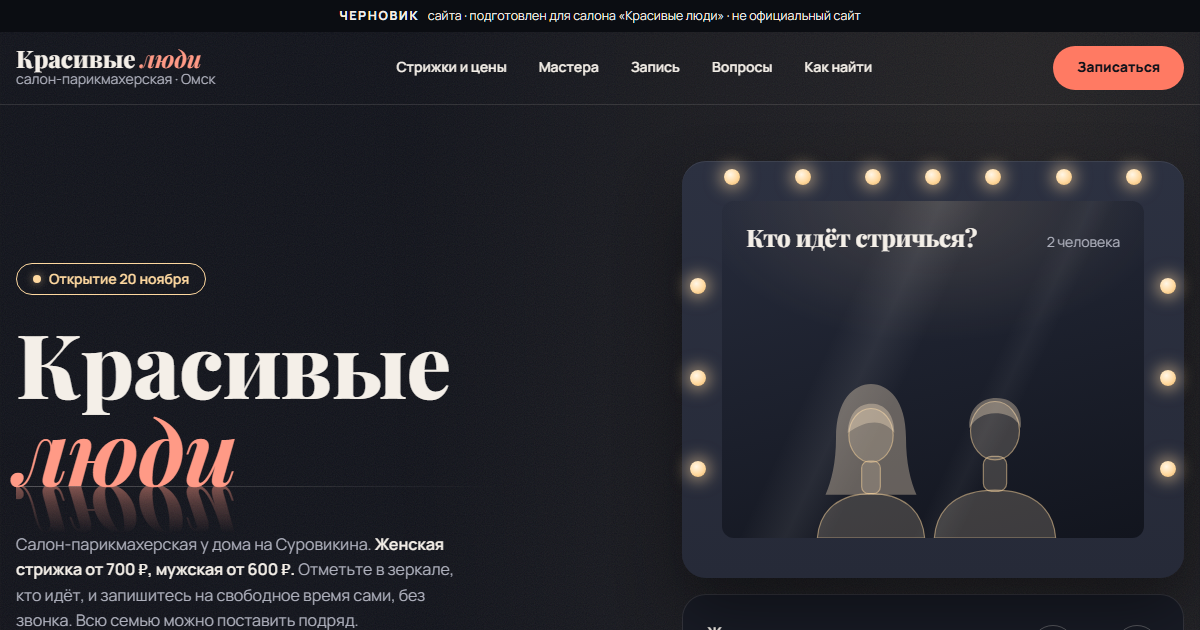
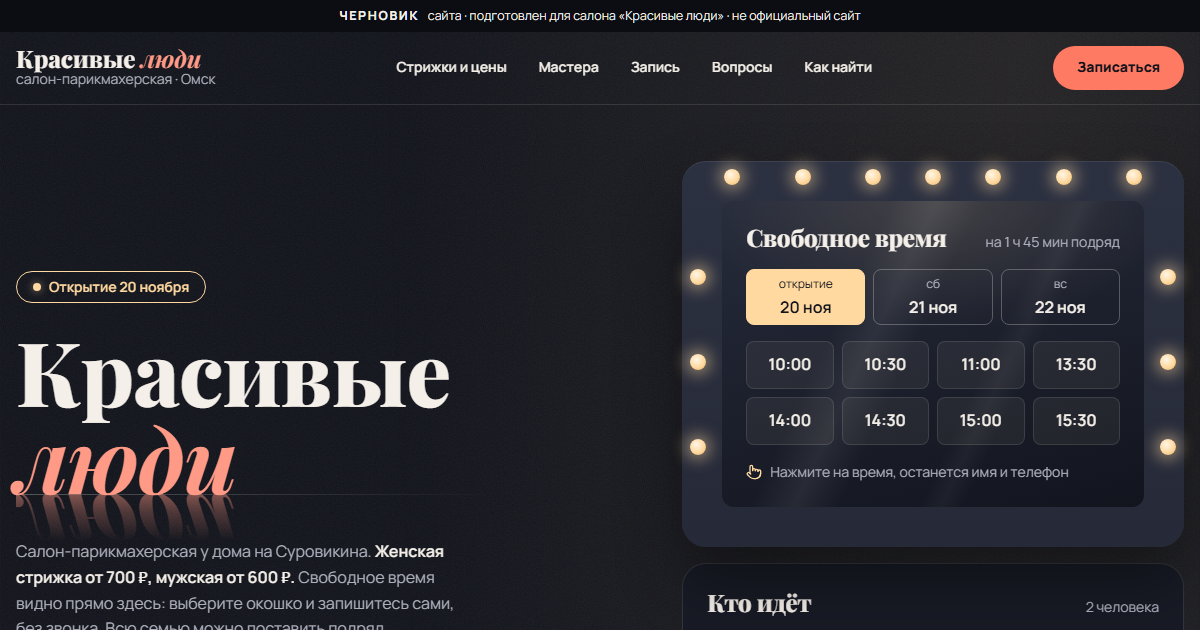
«Красивые люди»: в зеркале вместо силуэтов ближайшее свободное время

diff --git a/krasivye-lyudi/index.html b/krasivye-lyudi/index.html
@@ -24,7 +24,7 @@
 @font-face{font-family:'Manrope';font-style:normal;font-weight:600;font-display:swap;src:url(../fonts/manrope-latin-600-normal.woff2) format('woff2');unicode-range:U+0000-00FF,U+2000-206F,U+20AC,U+2122,U+2190-2199}
 @font-face{font-family:'Manrope';font-style:normal;font-weight:800;font-display:swap;src:url(../fonts/manrope-cyrillic-800-normal.woff2) format('woff2');unicode-range:U+0400-045F,U+0490-0491,U+04B0-04B1,U+2116}
 @font-face{font-family:'Manrope';font-style:normal;font-weight:800;font-display:swap;src:url(../fonts/manrope-latin-800-normal.woff2) format('woff2');unicode-range:U+0000-00FF,U+2000-206F,U+20AC,U+2122,U+2190-2199}
-:root{ --bg:#11131B;--surface:#181B25;--surface2:#232736;--ink:#F4EFE8;--muted:#AEB0BC;--line:rgba(244,239,232,.12);--line2:rgba(244,239,232,.28);--acc:#FF7A63;--acc-d:#F0624A;--on-acc:#11131B;--acc-t:#FF9A86;--lampa:#FFD9A0;--lampa-glow:rgba(255,217,160,.55);--lampa-off:#3A3B44;--rama:#262A38;--steklo1:#262B3B;--steklo2:#12151E;--sil:rgba(255,233,200,.18);--sil-v:rgba(255,233,200,.34);--sil-l:rgba(255,217,160,.5);--ok:#9FD3B0;--err:#FF9A85;--draft-bg:#0B0D12;--draft-ink:#F4EFE8;--r:8px;--fs:14px;--fm:16px;--ft:24px;--fl:clamp(48px,7.4vw,104px) }
+:root{ --bg:#11131B;--surface:#181B25;--surface2:#232736;--ink:#F4EFE8;--muted:#AEB0BC;--line:rgba(244,239,232,.12);--line2:rgba(244,239,232,.28);--acc:#FF7A63;--acc-d:#F0624A;--on-acc:#11131B;--acc-t:#FF9A86;--lampa:#FFD9A0;--lampa-glow:rgba(255,217,160,.55);--lampa-off:#3A3B44;--rama:#262A38;--steklo1:#262B3B;--steklo2:#12151E;--tile:rgba(255,233,200,.06);--tile-h:rgba(255,233,200,.12);--ok:#9FD3B0;--err:#FF9A85;--draft-bg:#0B0D12;--draft-ink:#F4EFE8;--r:8px;--fs:14px;--fm:16px;--ft:24px;--fl:clamp(48px,7.4vw,104px) }
 *{box-sizing:border-box;margin:0;padding:0}
 html{scroll-behavior:smooth;-webkit-text-size-adjust:100%}
 html,body{overflow-x:clip}
@@ -112,18 +112,34 @@ section{padding:96px 0}
 .js .lampa{opacity:.25;box-shadow:none}
 .js .zerkalo.in .lampa,.og .lampa,.vse .lampa{opacity:1;box-shadow:0 0 16px 4px var(--lampa-glow);transition-delay:calc(var(--i) * 60ms)}
 .og .lampa,.vse .lampa{transition:none}
-.steklo{position:relative;display:flex;flex-direction:column;justify-content:space-between;gap:16px;aspect-ratio:4/3.2;padding:24px 24px 0;border-radius:12px;overflow:hidden;background:radial-gradient(80% 60% at 50% 0%,rgba(255,217,160,.14),transparent 70%),linear-gradient(165deg,var(--steklo1),var(--steklo2))}
+.steklo{position:relative;display:flex;flex-direction:column;gap:16px;padding:24px;border-radius:12px;overflow:hidden;background:radial-gradient(80% 60% at 50% 0%,rgba(255,217,160,.14),transparent 70%),linear-gradient(165deg,var(--steklo1),var(--steklo2))}
 .steklo::after{content:"";position:absolute;inset:0;background:linear-gradient(115deg,transparent 30%,rgba(255,255,255,.07) 38%,transparent 46%,transparent 60%,rgba(255,255,255,.04) 64%,transparent 68%);pointer-events:none}
-.zk-verh{position:relative;z-index:1;display:flex;flex-wrap:wrap;align-items:baseline;justify-content:space-between;gap:8px 16px}
+.steklo>*{position:relative;z-index:1}
+.zk-verh{display:flex;flex-wrap:wrap;align-items:baseline;justify-content:space-between;gap:8px 16px}
 .zk-verh h2{font-size:var(--ft)}
 .zk-verh span{font-size:var(--fs);color:var(--muted)}
-.lyudi{position:relative;z-index:1;display:flex;align-items:flex-end;justify-content:center;gap:0;min-height:0;flex:1}
-.chel{flex:1 1 0;min-width:0;max-width:140px;margin:0 -8px;transform-origin:50% 100%;animation:poyav .4s ease-out both}
-.chel svg{display:block;width:100%;height:auto}
-.chel .k{fill:var(--sil);stroke:var(--sil-l);stroke-width:1}
-.chel .v{fill:var(--sil-v)}
-@keyframes poyav{from{opacity:0;transform:translateY(16px)}to{opacity:1;transform:none}}
-.og .chel,.vse .chel{animation:none}
+.zk-dni{display:grid;grid-template-columns:repeat(3,minmax(0,1fr));gap:8px}
+.zk-den{display:grid;place-items:center;min-height:56px;padding:4px;border:1px solid var(--line2);border-radius:var(--r);background:transparent;line-height:1.2;transition:background-color .3s ease-out,border-color .3s ease-out,color .3s ease-out}
+.zk-den small{font-size:12px;color:var(--muted)}
+.zk-den b{font-weight:600}
+.zk-den:hover{border-color:var(--lampa)}
+.zk-den[aria-selected="true"]{background:var(--lampa);border-color:var(--lampa);color:var(--on-acc)}
+.zk-den[aria-selected="true"] small{color:var(--on-acc)}
+.zk-sloty{display:grid;grid-template-columns:repeat(4,minmax(0,1fr));gap:8px}
+.zk-slot{min-height:48px;border:1px solid var(--line);border-radius:var(--r);background:var(--tile);font-weight:600;transition:background-color .3s ease-out,border-color .3s ease-out,transform .3s ease-out}
+.zk-slot:hover{background:var(--tile-h);border-color:var(--acc-t)}
+.zk-slot:active{transform:scale(.97)}
+.zk-pusto{grid-column:1/-1;font-size:var(--fs);color:var(--muted)}
+.zk-pod{display:flex;align-items:center;gap:8px;font-size:var(--fs);color:var(--muted)}
+.zk-pod svg{width:16px;height:16px;color:var(--lampa)}
+.js .zk-slot{opacity:0}
+.js .zerkalo.in .zk-slot{animation:poyav .4s ease-out calc(var(--i) * 40ms + 300ms) both}
+.js .zk-sloty.gotov .zk-slot{animation-duration:.3s;animation-delay:calc(var(--i) * 24ms)}
+@keyframes poyav{from{opacity:0;translate:0 8px}to{opacity:1;translate:0 0}}
+.og .zk-slot,.vse .zk-slot{opacity:1;animation:none!important}
+.pult-zag{display:flex;align-items:baseline;justify-content:space-between;gap:16px;padding-bottom:8px}
+.pult-zag h3{font-size:var(--ft)}
+.pult-zag span{font-size:var(--fs);color:var(--muted)}
 .pult{display:grid;gap:8px;padding:24px;border:1px solid var(--line);border-radius:24px;background:var(--surface)}
 .sch{display:flex;align-items:center;justify-content:space-between;gap:16px;min-height:56px}
 .sch+.sch{border-top:1px solid var(--line)}
@@ -143,7 +159,8 @@ section{padding:96px 0}
 .primer{font-size:var(--fs);color:var(--muted)}
 @media (max-width:640px){
   .rama{padding:32px;border-radius:16px}
-  .steklo{padding:16px 16px 0}
+  .steklo{padding:16px}
+  .zk-slot{font-size:var(--fs)}
   .pult{padding:16px}
 }
 
@@ -279,10 +296,10 @@ footer b{color:var(--ink)}
 .lipkaya.vidno{opacity:1;transform:none;pointer-events:auto}
 @media (min-width:1000px){.lipkaya{display:none}}
 @media (max-width:640px){section{padding:72px 0}.hero{padding:40px 0 72px}.hero-knopki .btn{width:100%}.kont,.reklama,.gotovo,.semya{padding:24px}.dom img{border-radius:16px}}
-@media (prefers-reduced-motion:reduce){.js .lampa{opacity:1;box-shadow:0 0 16px 4px var(--lampa-glow)}.js .otr{opacity:.5}.chel{animation:none}}
+@media (prefers-reduced-motion:reduce){.js .lampa{opacity:1;box-shadow:0 0 16px 4px var(--lampa-glow)}.js .otr{opacity:.45}.js .zk-slot{opacity:1;transform:none}}
 
 </style>
-<script type="application/ld+json">[{"@context": "https://schema.org", "@type": "HairSalon", "name": "Красивые люди", "description": "Салон-парикмахерская в Омске на улице Виталия Суровикина: женские, мужские и детские стрижки, онлайн-запись", "telephone": "+7 913 678-25-99", "url": "https://maltode.github.io/chernovik/krasivye-lyudi/", "address": {"@type": "PostalAddress", "streetAddress": "ул. Виталия Суровикина, 3, цокольный этаж", "addressLocality": "Омск", "postalCode": "644030", "addressCountry": "RU"}, "geo": {"@type": "GeoCoordinates", "latitude": 54.917846, "longitude": 73.426234}, "openingHoursSpecification": [{"@type": "OpeningHoursSpecification", "dayOfWeek": ["Monday", "Tuesday", "Wednesday", "Thursday", "Friday", "Saturday", "Sunday"], "opens": "10:00", "closes": "20:00"}], "paymentAccepted": "Наличные, перевод с карты", "makesOffer": [{"@type": "Offer", "name": "Женская стрижка", "price": "700", "priceCurrency": "RUB", "priceSpecification": {"@type": "PriceSpecification", "minPrice": 700, "priceCurrency": "RUB"}}, {"@type": "Offer", "name": "Мужская стрижка", "price": "600", "priceCurrency": "RUB", "priceSpecification": {"@type": "PriceSpecification", "minPrice": 600, "priceCurrency": "RUB"}}], "sameAs": ["https://2gis.ru/omsk/firm/70000001119284370"]}, {"@context": "https://schema.org", "@type": "FAQPage", "mainEntity": [{"@type": "Question", "name": "Где находится салон «Красивые люди» в Омске?", "acceptedAnswer": {"@type": "Answer", "text": "Омск, ул. Виталия Суровикина, 3, цокольный этаж. Это Чередовый микрорайон, Ленинский округ. Ближайшая остановка «10-я Чередовая», около 750 метров."}}, {"@type": "Question", "name": "Когда открывается салон?", "acceptedAnswer": {"@type": "Answer", "text": "Салон открывается 20 ноября 2026 года. Записаться на первые дни можно уже сейчас."}}, {"@type": "Question", "name": "Во сколько работает салон?", "acceptedAnswer": {"@type": "Answer", "text": "Каждый день с 10:00 до 20:00, без выходных. Приём по предварительной записи."}}, {"@type": "Question", "name": "Можно записать всю семью сразу?", "acceptedAnswer": {"@type": "Answer", "text": "Да. В зеркале вверху страницы отметьте, кто идёт, и нажмите «Записать всех подряд»: стрижки встанут одна за другой, без ожидания между ними."}}, {"@type": "Question", "name": "Как оплатить?", "acceptedAnswer": {"@type": "Answer", "text": "Наличными или переводом с карты."}}, {"@type": "Question", "name": "Как записаться?", "acceptedAnswer": {"@type": "Answer", "text": "Онлайн на этом сайте: выберите стрижку, день и свободное время. Или позвоните: +7 913 678-25-99."}}]}]</script>
+<script type="application/ld+json">[{"@context": "https://schema.org", "@type": "HairSalon", "name": "Красивые люди", "description": "Салон-парикмахерская в Омске на улице Виталия Суровикина: женские, мужские и детские стрижки, онлайн-запись", "telephone": "+7 913 678-25-99", "url": "https://maltode.github.io/chernovik/krasivye-lyudi/", "address": {"@type": "PostalAddress", "streetAddress": "ул. Виталия Суровикина, 3, цокольный этаж", "addressLocality": "Омск", "postalCode": "644030", "addressCountry": "RU"}, "geo": {"@type": "GeoCoordinates", "latitude": 54.917846, "longitude": 73.426234}, "openingHoursSpecification": [{"@type": "OpeningHoursSpecification", "dayOfWeek": ["Monday", "Tuesday", "Wednesday", "Thursday", "Friday", "Saturday", "Sunday"], "opens": "10:00", "closes": "20:00"}], "paymentAccepted": "Наличные, перевод с карты", "makesOffer": [{"@type": "Offer", "name": "Женская стрижка", "price": "700", "priceCurrency": "RUB", "priceSpecification": {"@type": "PriceSpecification", "minPrice": 700, "priceCurrency": "RUB"}}, {"@type": "Offer", "name": "Мужская стрижка", "price": "600", "priceCurrency": "RUB", "priceSpecification": {"@type": "PriceSpecification", "minPrice": 600, "priceCurrency": "RUB"}}], "sameAs": ["https://2gis.ru/omsk/firm/70000001119284370"]}, {"@context": "https://schema.org", "@type": "FAQPage", "mainEntity": [{"@type": "Question", "name": "Где находится салон «Красивые люди» в Омске?", "acceptedAnswer": {"@type": "Answer", "text": "Омск, ул. Виталия Суровикина, 3, цокольный этаж. Это Чередовый микрорайон, Ленинский округ. Ближайшая остановка «10-я Чередовая», около 750 метров."}}, {"@type": "Question", "name": "Когда открывается салон?", "acceptedAnswer": {"@type": "Answer", "text": "Салон открывается 20 ноября 2026 года. Записаться на первые дни можно уже сейчас."}}, {"@type": "Question", "name": "Во сколько работает салон?", "acceptedAnswer": {"@type": "Answer", "text": "Каждый день с 10:00 до 20:00, без выходных. Приём по предварительной записи."}}, {"@type": "Question", "name": "Можно записать всю семью сразу?", "acceptedAnswer": {"@type": "Answer", "text": "Да. Вверху страницы отметьте, кто идёт, и выберите время в зеркале: стрижки встанут одна за другой, без ожидания между ними."}}, {"@type": "Question", "name": "Как оплатить?", "acceptedAnswer": {"@type": "Answer", "text": "Наличными или переводом с карты."}}, {"@type": "Question", "name": "Как записаться?", "acceptedAnswer": {"@type": "Answer", "text": "Онлайн на этом сайте: выберите стрижку, день и свободное время. Или позвоните: +7 913 678-25-99."}}]}]</script>
 </head>
 <body>
 <div class="draft"><b>Черновик</b> сайта · подготовлен для салона «Красивые люди» · не официальный сайт</div>
@@ -298,7 +315,7 @@ footer b{color:var(--ink)}
   <div>
     <p class="otkrytie" id="otkrytie">Открытие 20 ноября</p>
     <h1 class="nazv" id="nazv"><span class="n1">Красивые</span><span class="n2">люди<span class="otr" aria-hidden="true">люди</span></span><span class="gran" aria-hidden="true"></span></h1>
-    <p class="lead">Салон-парикмахерская у дома на Суровикина. <b>Женская стрижка от 700 ₽, мужская от 600 ₽.</b> Отметьте в зеркале, кто идёт, и запишитесь на свободное время сами, без звонка. Всю семью можно поставить подряд.</p>
+    <p class="lead">Салон-парикмахерская у дома на Суровикина. <b>Женская стрижка от 700 ₽, мужская от 600 ₽.</b> Свободное время видно прямо здесь: выберите окошко и запишитесь сами, без звонка. Всю семью можно поставить подряд.</p>
     <div class="hero-knopki"><a class="btn" href="#zapis">Записаться онлайн</a><a class="ssylka" href="#strizhki">Стрижки и цены</a></div>
     <ul class="fakty">
       <li><svg viewBox="0 0 24 24" fill="none" stroke="currentColor" stroke-width="2" stroke-linecap="round" stroke-linejoin="round" aria-hidden="true"><path d="M20 10c0 4.993-5.539 10.193-7.399 11.799a1 1 0 0 1-1.202 0C9.539 20.193 4 14.993 4 10a8 8 0 0 1 16 0"/><circle cx="12" cy="10" r="3"/></svg><span>Омск, ул. Виталия Суровикина, 3, цокольный этаж</span></li>
@@ -312,11 +329,14 @@ footer b{color:var(--ink)}
     <div class="rama">
       <i class="lampa" style="left:10%;top:16px;--i:0"></i><i class="lampa" style="left:24%;top:16px;--i:1"></i><i class="lampa" style="left:38%;top:16px;--i:2"></i><i class="lampa" style="left:50%;top:16px;--i:3"></i><i class="lampa" style="left:62%;top:16px;--i:4"></i><i class="lampa" style="left:76%;top:16px;--i:5"></i><i class="lampa" style="left:90%;top:16px;--i:6"></i><i class="lampa" style="left:16px;top:30%;--i:7"></i><i class="lampa" style="left:calc(100% - 16px);top:30%;--i:7"></i><i class="lampa" style="left:16px;top:52%;--i:8"></i><i class="lampa" style="left:calc(100% - 16px);top:52%;--i:8"></i><i class="lampa" style="left:16px;top:74%;--i:9"></i><i class="lampa" style="left:calc(100% - 16px);top:74%;--i:9"></i>
       <div class="steklo">
-        <div class="zk-verh"><h2>Кто идёт стричься?</h2><span id="z-skolko">2 человека</span></div>
-        <div class="lyudi" id="lyudi" aria-live="polite"></div>
+        <div class="zk-verh"><h2>Свободное время</h2><span id="z-dlya">на 1 ч 45 мин подряд</span></div>
+        <div class="zk-dni" id="zk-dni" role="tablist" aria-label="День"></div>
+        <div class="zk-sloty" id="zk-sloty" aria-live="polite"></div>
+        <p class="zk-pod"><svg viewBox="0 0 24 24" fill="none" stroke="currentColor" stroke-width="2" stroke-linecap="round" stroke-linejoin="round" aria-hidden="true"><path d="M22 14a8 8 0 0 1-8 8"/><path d="M18 11v-1a2 2 0 0 0-2-2a2 2 0 0 0-2 2"/><path d="M14 10V9a2 2 0 0 0-2-2a2 2 0 0 0-2 2v1"/><path d="M10 9.5V4a2 2 0 0 0-2-2a2 2 0 0 0-2 2v10"/><path d="M18 11a2 2 0 1 1 4 0v3a8 8 0 0 1-8 8h-2c-2.8 0-4.5-.86-5.99-2.34l-3.6-3.6a2 2 0 0 1 2.83-2.82L7 15"/></svg><span>Нажмите на время, останется имя и телефон</span></p>
       </div>
     </div>
     <div class="pult">
+      <div class="pult-zag"><h3>Кто идёт</h3><span id="z-skolko">2 человека</span></div>
       <div class="sch"><span><b>Женская стрижка</b><small>от 700 ₽</small></span><div class="kn"><button type="button" data-minus="zh" aria-label="Убрать: женская стрижка"><svg viewBox="0 0 24 24" fill="none" stroke="currentColor" stroke-width="2" stroke-linecap="round" stroke-linejoin="round" aria-hidden="true"><path d="M5 12h14"/></svg></button><output id="c-zh">1</output><button type="button" data-plus="zh" aria-label="Добавить: женская стрижка"><svg viewBox="0 0 24 24" fill="none" stroke="currentColor" stroke-width="2" stroke-linecap="round" stroke-linejoin="round" aria-hidden="true"><path d="M5 12h14"/><path d="M12 5v14"/></svg></button></div></div><div class="sch"><span><b>Мужская стрижка</b><small>от 600 ₽</small></span><div class="kn"><button type="button" data-minus="m" aria-label="Убрать: мужская стрижка"><svg viewBox="0 0 24 24" fill="none" stroke="currentColor" stroke-width="2" stroke-linecap="round" stroke-linejoin="round" aria-hidden="true"><path d="M5 12h14"/></svg></button><output id="c-m">1</output><button type="button" data-plus="m" aria-label="Добавить: мужская стрижка"><svg viewBox="0 0 24 24" fill="none" stroke="currentColor" stroke-width="2" stroke-linecap="round" stroke-linejoin="round" aria-hidden="true"><path d="M5 12h14"/><path d="M12 5v14"/></svg></button></div></div><div class="sch"><span><b>Детская стрижка</b><small><span class="zaglushka">[цена]</span></small></span><div class="kn"><button type="button" data-minus="d" aria-label="Убрать: детская стрижка"><svg viewBox="0 0 24 24" fill="none" stroke="currentColor" stroke-width="2" stroke-linecap="round" stroke-linejoin="round" aria-hidden="true"><path d="M5 12h14"/></svg></button><output id="c-d">0</output><button type="button" data-plus="d" aria-label="Добавить: детская стрижка"><svg viewBox="0 0 24 24" fill="none" stroke="currentColor" stroke-width="2" stroke-linecap="round" stroke-linejoin="round" aria-hidden="true"><path d="M5 12h14"/><path d="M12 5v14"/></svg></button></div></div>
       <div class="itog" aria-live="polite">
         <div class="itog-cifry"><b id="z-summa">от 1 300 ₽</b><span id="z-vremya">около 1 ч 45 мин подряд</span></div>
@@ -335,11 +355,11 @@ footer b{color:var(--ink)}
     <div class="semya rv">
       <h3><svg viewBox="0 0 24 24" fill="none" stroke="currentColor" stroke-width="2" stroke-linecap="round" stroke-linejoin="round" aria-hidden="true"><path d="M16 21v-2a4 4 0 0 0-4-4H6a4 4 0 0 0-4 4v2"/><circle cx="9" cy="7" r="4"/><path d="M22 21v-2a4 4 0 0 0-3-3.87"/><path d="M16 3.13a4 4 0 0 1 0 7.75"/></svg>Вся семья за один заход</h3>
       <ol>
-        <li>Отметьте в зеркале, кто идёт: вы, муж, ребёнок.</li>
+        <li>Отметьте, кто идёт: вы, муж, ребёнок.</li>
         <li>Выберите время для первого.</li>
         <li>Остальные встанут следом, без ожидания между стрижками.</li>
       </ol>
-      <a class="ssylka" href="#zerkalo">Отметить в зеркале</a>
+      <a class="ssylka" href="#zerkalo">Отметить, кто идёт</a>
     </div>
   </div>
   <div class="spisok"><button type="button" class="stroka" data-book="zh"><b>Женская стрижка</b><span class="cena"><small>от</small>700 ₽</span><svg viewBox="0 0 24 24" fill="none" stroke="currentColor" stroke-width="2" stroke-linecap="round" stroke-linejoin="round" aria-hidden="true"><path d="m9 18 6-6-6-6"/></svg></button><button type="button" class="stroka" data-book="m"><b>Мужская стрижка</b><span class="cena"><small>от</small>600 ₽</span><svg viewBox="0 0 24 24" fill="none" stroke="currentColor" stroke-width="2" stroke-linecap="round" stroke-linejoin="round" aria-hidden="true"><path d="m9 18 6-6-6-6"/></svg></button><button type="button" class="stroka" data-book="d"><b>Детская стрижка</b><span class="zaglushka">[цена]</span><svg viewBox="0 0 24 24" fill="none" stroke="currentColor" stroke-width="2" stroke-linecap="round" stroke-linejoin="round" aria-hidden="true"><path d="m9 18 6-6-6-6"/></svg></button>
@@ -361,7 +381,7 @@ footer b{color:var(--ink)}
     <div>
       <form class="forma" id="forma" novalidate>
         <p class="shag"><i>1</i>Стрижка</p>
-        <div class="vybor-sp"><select id="usl" aria-label="Стрижка"><optgroup label="Из зеркала"><option value="semya" id="opt-semya" selected>Подряд: женская + мужская</option></optgroup><optgroup label="Одна стрижка"><option value="zh">Женская стрижка</option><option value="m">Мужская стрижка</option><option value="d">Детская стрижка</option></optgroup></select><svg viewBox="0 0 24 24" fill="none" stroke="currentColor" stroke-width="2" stroke-linecap="round" stroke-linejoin="round" aria-hidden="true"><path d="m6 9 6 6 6-6"/></svg></div>
+        <div class="vybor-sp"><select id="usl" aria-label="Стрижка"><optgroup label="Кто идёт"><option value="semya" id="opt-semya" selected>Подряд: женская + мужская</option></optgroup><optgroup label="Одна стрижка"><option value="zh">Женская стрижка</option><option value="m">Мужская стрижка</option><option value="d">Детская стрижка</option></optgroup></select><svg viewBox="0 0 24 24" fill="none" stroke="currentColor" stroke-width="2" stroke-linecap="round" stroke-linejoin="round" aria-hidden="true"><path d="m6 9 6 6 6-6"/></svg></div>
         <a class="ssylka izm" href="#zerkalo">Изменить, кто идёт</a>
         <p class="shag"><i>2</i>День</p>
         <ul class="legenda" aria-label="Обозначения">
@@ -374,7 +394,7 @@ footer b{color:var(--ink)}
         <p class="zametka">Салон открывается 20 ноября и работает каждый день с 10:00 до 20:00.</p>
         <p class="shag"><i>3</i>Время</p>
         <div class="vremya" id="vremya" role="radiogroup" aria-label="Время"></div>
-        <p class="shag"><i>4</i>Имя и телефон</p>
+        <p class="shag" id="shag-imya"><i>4</i>Имя и телефон</p>
         <label for="imya">Как вас зовут</label>
         <input id="imya" name="name" autocomplete="given-name" aria-describedby="o-imya">
         <p class="oshibka" id="o-imya" hidden>Напишите имя, чтобы мастер знал, кого ждать</p>
@@ -414,7 +434,7 @@ footer b{color:var(--ink)}
 
 <section class="voprosy" id="voprosy"><div class="wrap voprosy-setka">
   <div class="zag rv"><p class="kik">Коротко о главном</p><h2>Вопросы <em>и ответы</em></h2></div>
-  <div><details><summary>Где находится салон «Красивые люди» в Омске?<svg viewBox="0 0 24 24" fill="none" stroke="currentColor" stroke-width="2" stroke-linecap="round" stroke-linejoin="round" aria-hidden="true"><path d="m6 9 6 6 6-6"/></svg></summary><p>Омск, ул. Виталия Суровикина, 3, цокольный этаж. Это Чередовый микрорайон, Ленинский округ. Ближайшая остановка «10-я Чередовая», около 750 метров.</p></details><details><summary>Когда открывается салон?<svg viewBox="0 0 24 24" fill="none" stroke="currentColor" stroke-width="2" stroke-linecap="round" stroke-linejoin="round" aria-hidden="true"><path d="m6 9 6 6 6-6"/></svg></summary><p>Салон открывается 20 ноября 2026 года. Записаться на первые дни можно уже сейчас.</p></details><details><summary>Во сколько работает салон?<svg viewBox="0 0 24 24" fill="none" stroke="currentColor" stroke-width="2" stroke-linecap="round" stroke-linejoin="round" aria-hidden="true"><path d="m6 9 6 6 6-6"/></svg></summary><p>Каждый день с 10:00 до 20:00, без выходных. Приём по предварительной записи.</p></details><details><summary>Сколько стоит стрижка?<svg viewBox="0 0 24 24" fill="none" stroke="currentColor" stroke-width="2" stroke-linecap="round" stroke-linejoin="round" aria-hidden="true"><path d="m6 9 6 6 6-6"/></svg></summary><p>Женская стрижка от 700 ₽, мужская от 600 ₽. Детская: <span class="zaglushka">[цена]</span>.</p></details><details><summary>Можно записать всю семью сразу?<svg viewBox="0 0 24 24" fill="none" stroke="currentColor" stroke-width="2" stroke-linecap="round" stroke-linejoin="round" aria-hidden="true"><path d="m6 9 6 6 6-6"/></svg></summary><p>Да. В зеркале вверху страницы отметьте, кто идёт, и нажмите «Записать всех подряд»: стрижки встанут одна за другой, без ожидания между ними.</p></details><details><summary>Как оплатить?<svg viewBox="0 0 24 24" fill="none" stroke="currentColor" stroke-width="2" stroke-linecap="round" stroke-linejoin="round" aria-hidden="true"><path d="m6 9 6 6 6-6"/></svg></summary><p>Наличными или переводом с карты.</p></details><details><summary>Как записаться?<svg viewBox="0 0 24 24" fill="none" stroke="currentColor" stroke-width="2" stroke-linecap="round" stroke-linejoin="round" aria-hidden="true"><path d="m6 9 6 6 6-6"/></svg></summary><p>Онлайн на этом сайте: выберите стрижку, день и свободное время. Или позвоните: <a href="tel:+79136782599">+7 913 678-25-99</a>.</p></details></div>
+  <div><details><summary>Где находится салон «Красивые люди» в Омске?<svg viewBox="0 0 24 24" fill="none" stroke="currentColor" stroke-width="2" stroke-linecap="round" stroke-linejoin="round" aria-hidden="true"><path d="m6 9 6 6 6-6"/></svg></summary><p>Омск, ул. Виталия Суровикина, 3, цокольный этаж. Это Чередовый микрорайон, Ленинский округ. Ближайшая остановка «10-я Чередовая», около 750 метров.</p></details><details><summary>Когда открывается салон?<svg viewBox="0 0 24 24" fill="none" stroke="currentColor" stroke-width="2" stroke-linecap="round" stroke-linejoin="round" aria-hidden="true"><path d="m6 9 6 6 6-6"/></svg></summary><p>Салон открывается 20 ноября 2026 года. Записаться на первые дни можно уже сейчас.</p></details><details><summary>Во сколько работает салон?<svg viewBox="0 0 24 24" fill="none" stroke="currentColor" stroke-width="2" stroke-linecap="round" stroke-linejoin="round" aria-hidden="true"><path d="m6 9 6 6 6-6"/></svg></summary><p>Каждый день с 10:00 до 20:00, без выходных. Приём по предварительной записи.</p></details><details><summary>Сколько стоит стрижка?<svg viewBox="0 0 24 24" fill="none" stroke="currentColor" stroke-width="2" stroke-linecap="round" stroke-linejoin="round" aria-hidden="true"><path d="m6 9 6 6 6-6"/></svg></summary><p>Женская стрижка от 700 ₽, мужская от 600 ₽. Детская: <span class="zaglushka">[цена]</span>.</p></details><details><summary>Можно записать всю семью сразу?<svg viewBox="0 0 24 24" fill="none" stroke="currentColor" stroke-width="2" stroke-linecap="round" stroke-linejoin="round" aria-hidden="true"><path d="m6 9 6 6 6-6"/></svg></summary><p>Да. Вверху страницы отметьте, кто идёт, и выберите время в зеркале: стрижки встанут одна за другой, без ожидания между ними.</p></details><details><summary>Как оплатить?<svg viewBox="0 0 24 24" fill="none" stroke="currentColor" stroke-width="2" stroke-linecap="round" stroke-linejoin="round" aria-hidden="true"><path d="m6 9 6 6 6-6"/></svg></summary><p>Наличными или переводом с карты.</p></details><details><summary>Как записаться?<svg viewBox="0 0 24 24" fill="none" stroke="currentColor" stroke-width="2" stroke-linecap="round" stroke-linejoin="round" aria-hidden="true"><path d="m6 9 6 6 6-6"/></svg></summary><p>Онлайн на этом сайте: выберите стрижку, день и свободное время. Или позвоните: <a href="tel:+79136782599">+7 913 678-25-99</a>.</p></details></div>
 </div></section>
 
 <section class="kontakty" id="kontakty"><div class="wrap">
@@ -454,7 +474,7 @@ footer b{color:var(--ink)}
 
 <a class="btn lipkaya" id="lipkaya" href="#zapis">Записаться онлайн</a>
 
-<script type="application/json" id="dannye">{"strizhki": [{"k": "zh", "n": "Женская стрижка", "cena": 700, "min": 60, "sil": "zh"}, {"k": "m", "n": "Мужская стрижка", "cena": 600, "min": 45, "sil": "m"}, {"k": "d", "n": "Детская стрижка", "cena": null, "min": 30, "sil": "d"}], "poUmolch": {"zh": 1, "m": 1, "d": 0}, "maks": 4, "chasy": {"0": [600, 1200], "1": [600, 1200], "2": [600, 1200], "3": [600, 1200], "4": [600, 1200], "5": [600, 1200], "6": [600, 1200]}, "adres": "Омск, ул. Виталия Суровикина, 3, цокольный этаж", "otkr": [2026, 11, 20], "sil": {"zh": "<path class=\"v\" d=\"M30 64C30 32 45 18 60 18C75 18 90 32 90 64C90 86 94 101 99 113L21 113C26 101 30 86 30 64Z\"/><path class=\"k\" d=\"M14 150C16 125 34 112 60 112C86 112 104 125 106 150Z\"/><rect class=\"k\" x=\"52\" y=\"84\" width=\"16\" height=\"28\" rx=\"6\"/><ellipse class=\"k\" cx=\"60\" cy=\"62\" rx=\"19\" ry=\"23\"/><path class=\"v\" d=\"M40 60C41 41 51 34 62 35C73 36 80 45 80 60C73 50 59 46 40 60Z\"/>", "m": "<path class=\"k\" d=\"M8 150C10 122 31 109 60 109C89 109 110 122 112 150Z\"/><rect class=\"k\" x=\"50\" y=\"80\" width=\"20\" height=\"30\" rx=\"7\"/><ellipse class=\"k\" cx=\"60\" cy=\"58\" rx=\"21\" ry=\"25\"/><path class=\"v\" d=\"M38 56C37 39 48 30 61 30C74 30 84 38 82 56C78 46 69 43 60 43C51 43 43 47 38 56Z\"/>", "d": "<g transform=\"translate(60 150) scale(.74) translate(-60 -150)\"><path class=\"k\" d=\"M18 150C20 126 36 114 60 114C84 114 100 126 102 150Z\"/><rect class=\"k\" x=\"52\" y=\"88\" width=\"16\" height=\"26\" rx=\"6\"/><circle class=\"k\" cx=\"60\" cy=\"62\" r=\"27\"/><path class=\"v\" d=\"M33 60C32 38 45 30 60 30C76 30 89 39 87 60C82 49 72 45 60 46C50 46 39 50 33 60Z\"/><circle class=\"v\" cx=\"84\" cy=\"46\" r=\"7\"/><\/g>"}, "silImya": {"zh": "женская стрижка", "m": "мужская стрижка", "d": "детская стрижка"}}</script>
+<script type="application/json" id="dannye">{"strizhki": [{"k": "zh", "n": "Женская стрижка", "cena": 700, "min": 60}, {"k": "m", "n": "Мужская стрижка", "cena": 600, "min": 45}, {"k": "d", "n": "Детская стрижка", "cena": null, "min": 30}], "poUmolch": {"zh": 1, "m": 1, "d": 0}, "maks": 4, "chasy": {"0": [600, 1200], "1": [600, 1200], "2": [600, 1200], "3": [600, 1200], "4": [600, 1200], "5": [600, 1200], "6": [600, 1200]}, "adres": "Омск, ул. Виталия Суровикина, 3, цокольный этаж", "otkr": [2026, 11, 20]}</script>
 <script>
 (function(){
   var $ = function(s){ return document.querySelector(s); }, $$ = function(s){ return [].slice.call(document.querySelectorAll(s)); };
@@ -473,6 +493,7 @@ footer b{color:var(--ink)}
   // время Омска (UTC+6)
   var NOW = new Date(Date.now() + (new Date().getTimezoneOffset() + 360) * 60000), nowMin = NOW.getHours() * 60 + NOW.getMinutes();
   var OTKR = new Date(D.otkr[0], D.otkr[1] - 1, D.otkr[2]);
+  var MES_K = ['янв','фев','мар','апр','мая','июн','июл','авг','сен','окт','ноя','дек'];
   var DN = ['вс','пн','вт','ср','чт','пт','сб'], MES = ['января','февраля','марта','апреля','мая','июня','июля','августа','сентября','октября','ноября','декабря'];
   function hhmm(m){ return ('0' + Math.floor(m / 60) % 24).slice(-2) + ':' + ('0' + m % 60).slice(-2); }
   function rub(n){ return String(n).replace(/\B(?=(\d{3})+(?!\d))/g, ' ') + ' ₽'; }
@@ -504,18 +525,11 @@ footer b{color:var(--ink)}
     D.strizhki.forEach(function(s){ if (kto[s.k]) chasti.push(s.n.toLowerCase().replace(' стрижка', '') + (kto[s.k] > 1 ? ' ×' + kto[s.k] : '')); });
     return 'Подряд: ' + chasti.join(' + ');
   }
+  var zkI = null;
   function risovatZerkalo(){
-    var n = vsego(), r = raschet(), lyudi = $('#lyudi');
-    // перерисовываем силуэты: новые появляются плавно
-    var est = lyudi.children.length, nado = r.o.map(function(s){ return s.sil; });
-    var tek = [].slice.call(lyudi.children).map(function(c){ return c.dataset.sil; });
-    if (tek.join() !== nado.join()) {
-      lyudi.innerHTML = nado.map(function(k, i){
-        var stary = tek[i] === k;
-        return '<div class="chel" data-sil="' + k + '"' + (stary ? ' style="animation:none"' : '') + '><svg viewBox="0 0 120 150" role="img" aria-label="' + D.silImya[k] + '">' + D.sil[k] + '</svg></div>';
-      }).join('');
-    }
+    var n = vsego(), r = raschet();
     $('#z-skolko').textContent = lyudejSlovom(n);
+    $('#z-dlya').textContent = 'на ' + dlitSlovom(r.mi) + (n > 1 ? ' подряд' : '');
     $('#z-summa').textContent = r.summa ? 'от ' + rub(r.summa) : (r.bezCeny ? 'цену сверим' : '0 ₽');
     $('#z-vremya').textContent = 'около ' + dlitSlovom(r.mi) + (n > 1 ? ' подряд' : '');
     $('#z-dop').hidden = !r.bezCeny;
@@ -525,7 +539,22 @@ footer b{color:var(--ink)}
       $('[data-minus="' + s.k + '"]').disabled = kto[s.k] === 0 || n === 1;
       $('[data-plus="' + s.k + '"]').disabled = n >= D.maks;
     });
-    $('#opt-semya').textContent = n > 1 ? opisSemi() : 'Из зеркала: ' + r.o[0].n.toLowerCase();
+    $('#opt-semya').textContent = n > 1 ? opisSemi() : r.o[0].n;
+    // ближайшие три дня, где есть окошко на всех подряд
+    var dni = [];
+    for (var i = 0; i < DNEJ && dni.length < 3; i++) if (!doOtkr(i) && sloty(i, r.mi).some(function(x){ return x.svob; })) dni.push(i);
+    if (dni.indexOf(zkI) < 0) zkI = dni.length ? dni[0] : null;
+    $('#zk-dni').innerHTML = dni.map(function(i){
+      var d = den(i), pod = d.getTime() === OTKR.getTime() ? 'открытие' : i === 0 ? 'сегодня' : i === 1 ? 'завтра' : DN[d.getDay()];
+      return '<button type="button" class="zk-den" role="tab" aria-selected="' + (i === zkI) + '" data-zk-den="' + i + '"><small>' + pod + '</small><b>' +
+        d.getDate() + ' ' + MES_K[d.getMonth()] + '</b></button>';
+    }).join('');
+    var box = $('#zk-sloty');
+    if (zkI === null) { box.innerHTML = '<p class="zk-pusto">На две недели вперёд окошка на всех подряд нет, позвоните в салон.</p>'; return; }
+    box.innerHTML = sloty(zkI, r.mi).filter(function(x){ return x.svob; }).slice(0, 8).map(function(x, k){
+      return '<button type="button" class="zk-slot" style="--i:' + k + '" data-zk-slot="' + x.t + '" aria-label="' + data(den(zkI)) + ', ' + x.t + '">' + x.t + '</button>';
+    }).join('');
+    setTimeout(function(){ box.classList.add('gotov'); }, 1200);
   }
 
   // ---------- запись ----------
@@ -540,8 +569,9 @@ footer b{color:var(--ink)}
   // занятость придумана: окошко занято, если занят хоть один получасовой кусок внутри
   function kusokZanyat(i, m){ var d = den(i); return hesh(d.getDate() + '.' + d.getMonth() + '.' + m) % 9 === 0; }
   function zanyat(i, start, mi){ for (var m = start; m < start + mi; m += SHAG) if (kusokZanyat(i, m)) return true; return false; }
-  function sloty(i){
-    var c = D.chasy[den(i).getDay()], out = [], mi = dlit();
+  function sloty(i, mi){
+    var c = D.chasy[den(i).getDay()], out = [];
+    if (mi === undefined) mi = dlit();
     if (!c || doOtkr(i)) return out;
     for (var m = c[0]; m + mi <= c[1]; m += SHAG) {
       if (i === 0 && m <= nowMin + 60) continue;
@@ -615,7 +645,7 @@ footer b{color:var(--ink)}
 
   // ---------- все нажатия ----------
   document.addEventListener('click', function(ev){
-    var t = ev.target.closest('[data-plus],[data-minus],[data-book],[data-den],[data-slot]');
+    var t = ev.target.closest('[data-plus],[data-minus],[data-book],[data-den],[data-slot],[data-zk-den],[data-zk-slot]');
     if (!t || t.disabled) return;
     var ds = t.dataset;
     if ('plus' in ds) { if (vsego() < D.maks) kto[ds.plus]++; risovatZerkalo(); if (vyb.usl === 'semya') vseZapis(); }
@@ -623,6 +653,13 @@ footer b{color:var(--ink)}
     else if ('book' in ds) kZapisi(ds.book);
     else if ('den' in ds) { vyb.i = +ds.den; risovatDni(); risovatVremya(); risovatItogo(); }
     else if ('slot' in ds) { vyb.t = ds.slot; risovatVremya(); risovatItogo(); }
+    else if ('zkDen' in ds) { zkI = +ds.zkDen; $('#zk-sloty').classList.add('gotov'); risovatZerkalo(); }
+    else if ('zkSlot' in ds) {
+      // время из зеркала: в записи остаются имя и телефон
+      vyb.usl = 'semya'; uslEl.value = 'semya'; vyb.i = zkI; vyb.t = ds.zkSlot;
+      pokazatFormu(); vseZapis(); lipkaya();
+      $('#shag-imya').scrollIntoView({behavior: 'smooth', block: 'start'});
+    }
   });
   $('#na-zapis').addEventListener('click', function(){ kZapisi('semya'); });
 
